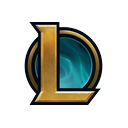
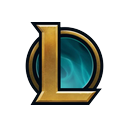
게임 썸네일의 시각 중심을 오른쪽으로 보정

diff --git a/handlers/공통/썸네일.js b/handlers/공통/썸네일.js
@@ -8,7 +8,7 @@ const { emojiUrl } = require('./카드');
 const { logSystem, logError } = require('./로그');
 
 // 원래 게임 이모지 ID → 여백 넣은 그림 파일 이름. 그림 크기를 바꾸면 PREFIX 를 바꿔 새로 등록되게 한다.
-const PREFIX = 't65_';
+const PREFIX = 't65c_'; // 시각 중심 보정판(이전 t65_ 앱 이모지와 구분)
 const SOURCES = {
   '1510933684750913626': 'lol',
   '1510933698349109268': 'valorant',
